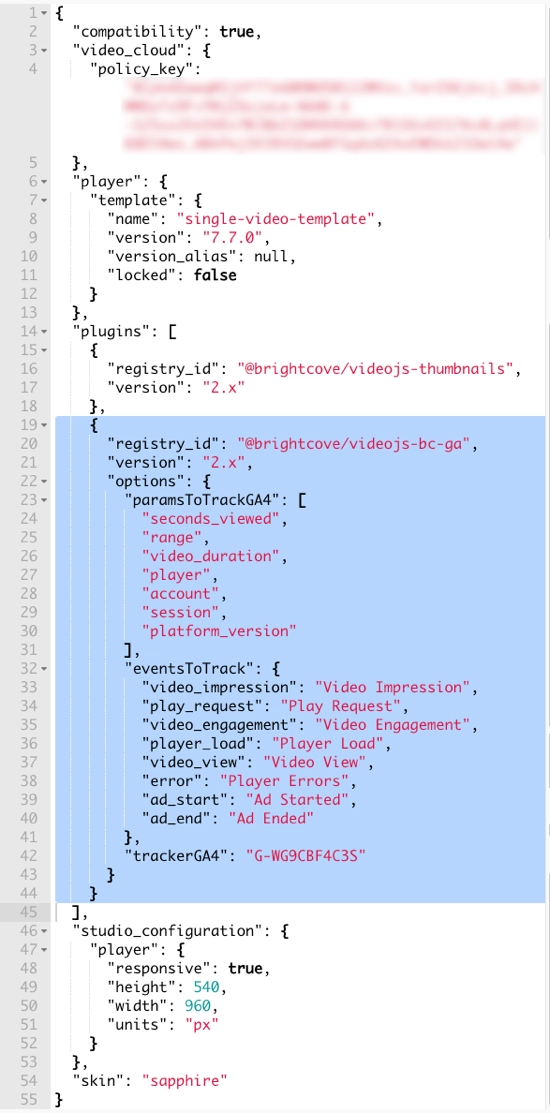
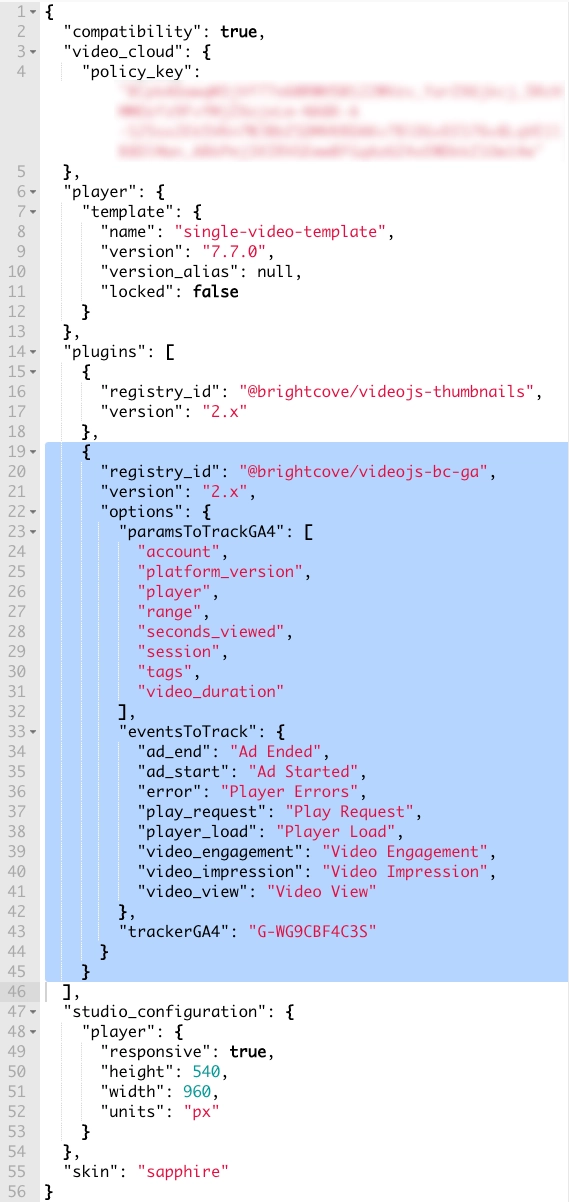
WIP GA4 plugin doc

diff --git a/plugins/google-analytics-plugin.html b/plugins/google-analytics-plugin.html
@@ -271,13 +271,14 @@ parent: Plugins
       </li>
       <li>Create a custom dimension for each parameter listed in the <strong>paramsToTrackGA4</strong> array, those being:
         <ul>
-          <li>seconds_viewed</li>
-          <li>range</li>
-          <li>video_duration</li>
-          <li>player</li>
           <li>account</li>
-          <li>session</li>
           <li>platform_version</li>
+          <li>player</li>
+          <li>range</li>
+          <li>seconds_viewed</li>
+          <li>session</li>
+          <li>tags</li>
+          <li>video_duration</li>
         </ul>
         <p>For each parameter in the array, complete the form:</p>
         <ul>

diff --git a/_site/plugins/google-analytics-plugin.html b/_site/plugins/google-analytics-plugin.html
@@ -2112,13 +2112,14 @@
       </li>
       <li>Create a custom dimension for each parameter listed in the <strong>paramsToTrackGA4</strong> array, those being:
         <ul>
-          <li>seconds_viewed</li>
-          <li>range</li>
-          <li>video_duration</li>
-          <li>player</li>
           <li>account</li>
-          <li>session</li>
           <li>platform_version</li>
+          <li>player</li>
+          <li>range</li>
+          <li>seconds_viewed</li>
+          <li>session</li>
+          <li>tags</li>
+          <li>video_duration</li>
         </ul>
         <p>For each parameter in the array, complete the form:</p>
         <ul>
